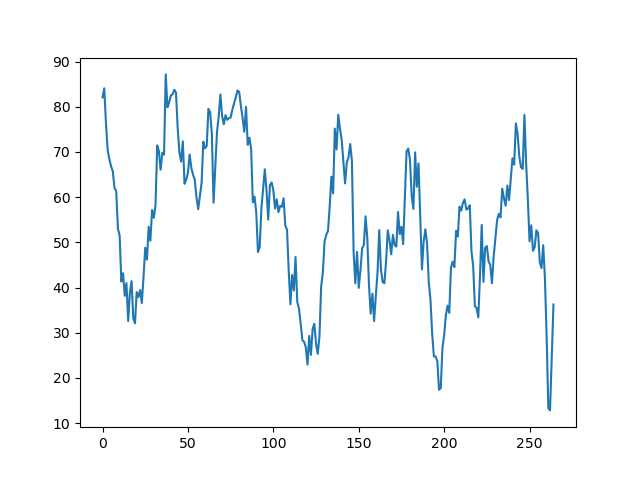
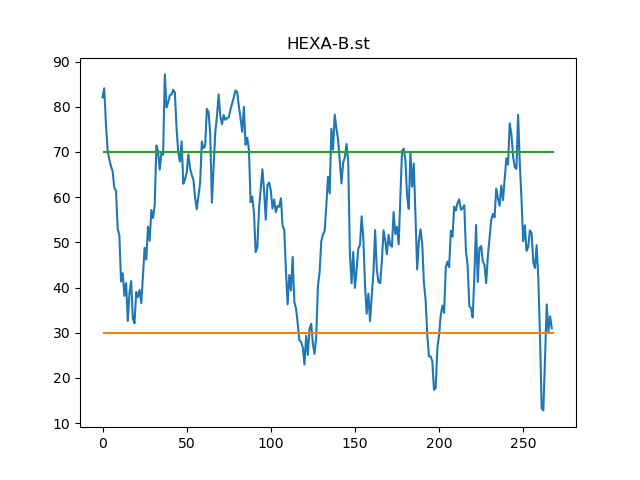
Discord Bot
Functioning discord bot template

diff --git a/MainBOT.py b/MainBOT.py
@@ -8,25 +8,39 @@ import discord
 import ctx
 import os
 
+bot = commands.Bot("!")
 
-client = discord.Client()
+target_channel_id = 971755150400167957
 
-@client.event
-async def on_ready():
-    print('We have logged in as {0.user}'.format(client))
 
-@client.event
-async def on_message(message):
-    if message.author == client.user:
-        return
-    if message.content.startswith('$stocks'):
-        for stock in stocks:
-            if stocks[stock][-1] > 70:
-                await message.channel.send('Sell ' + stock + ', RSI: ' + str(int(stocks[stock][-1])))
-                await message.channel.send(file=discord.File("pictures/" + stock + ".png"))
+@tasks.loop(hours=12)
+async def called_once_a_day():
+    message_channel = bot.get_channel(target_channel_id)
+    print(f"Got channel {message_channel}")
+    for stock in stocks:
+        if stocks[stock][-1] > 70:
+            embed = discord.Embed(
+                title=stock,
+                description=('Sell ' + stock + ', RSI: ' +
+                             str(int(stocks[stock][-1]))),
+                colour=discord.Colour.purple()
+            )
+            await message_channel.send(embed=embed, file=discord.File("pictures/" + stock + ".png"))
 
-            elif stocks[stock][-1] < 30:
-                await message.channel.send('Buy ' + stock + ', RSI: ' + str(int(stocks[stock][-1])))
-                await message.channel.send(file=discord.File("pictures/" + stock + ".png"))
+        elif stocks[stock][-1] < 30:
+            embed = discord.Embed(
+                title=stock,
+                description=('Buy ' + stock + ', RSI: ' +
+                             str(int(stocks[stock][-1]))),
+                colour=discord.Colour.purple()
+            )
+            await message_channel.send(embed=embed, file=discord.File("pictures/" + stock + ".png"))
 
-client.run('Insert Discord Token here')
+
+@called_once_a_day.before_loop
+async def before():
+    await bot.wait_until_ready()
+    print("Finished waiting")
+
+called_once_a_day.start()
+bot.run("OTU2NTk0MjA5NjY0NjkyMjY0.YjyfyA.a5HGowJKVRZ5tWn_1-9BNsITDRM")

diff --git a/Testbot.py b/Testbot.py
@@ -1,0 +1,52 @@
+from asyncio import tasks
+from enum import auto
+from discord import File
+from discord.ext import tasks, commands
+from tracemalloc import start
+from data import stocks
+import discord
+import ctx
+import os
+
+
+client = discord.Client()
+
+
+@client.event
+async def on_ready():
+    print('We have logged in as {0.user}'.format(client))
+
+
+@client.event
+async def on_message(message):
+    if message.author == client.user:
+        return
+    if message.content.startswith('$test'):
+        for stock in stocks:
+            if stocks[stock][-1] > 70:
+                embed = discord.Embed(
+                    title=stock,
+                    description=('Sell ' + stock + ', RSI: ' + str(int(stocks[stock][-1]))),
+                    colour=discord.Colour.purple()
+                )
+                await message.channel.send(embed=embed, file=discord.File("pictures/" + stock + ".png"))
+
+            elif stocks[stock][-1] < 30:
+                embed = discord.Embed(
+                    title=stock,
+                    description=('Buy ' + stock + ', RSI: ' + str(int(stocks[stock][-1]))),
+                    colour=discord.Colour.purple()
+                )
+                await message.channel.send(embed=embed, file=discord.File("pictures/" + stock + ".png"))
+
+                # if message.content.startswith('$stocks'):
+                #     for stock in stocks:
+                #         if stocks[stock][-1] > 70:
+                #             await message.channel.send('Sell ' + stock + ', RSI: ' + str(int(stocks[stock][-1])))
+                #             await message.channel.send(file=discord.File("pictures/" + stock + ".png"))
+
+                #         elif stocks[stock][-1] < 30:
+                #             await message.channel.send('Buy ' + stock + ', RSI: ' + str(int(stocks[stock][-1])))
+                #             await message.channel.send(file=discord.File("pictures/" + stock + ".png"))
+        
+        client.run('token')
